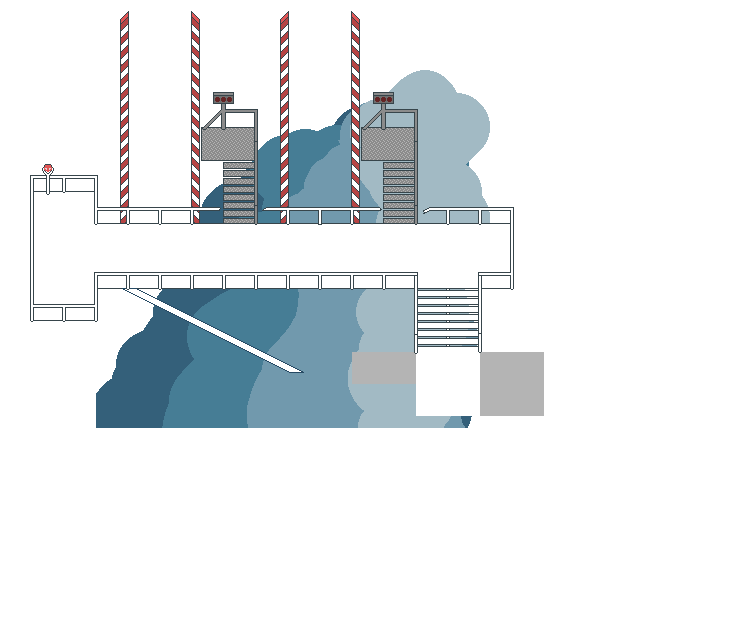
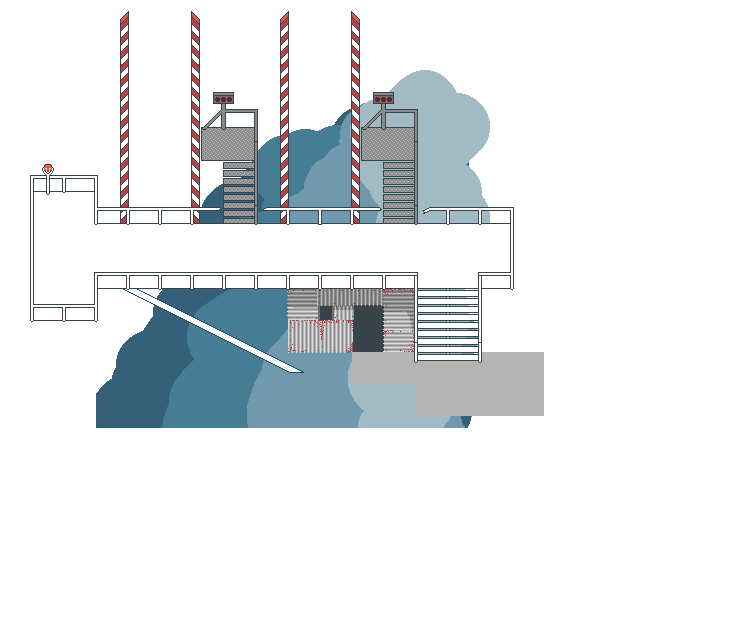
add texture

Changed region(s): [[0.375, 0.4375, 0.6562, 0.6562]]

diff --git a/AstroMiner/Definitions/WorldGrid.cs b/AstroMiner/Definitions/WorldGrid.cs
@@ -19,7 +19,7 @@ public static class WorldGrid
                                       X,-,-,-,-,-,-,-,-,-,-,-,-,-,-,-,X,X
                                       X,-,-,-,-,-,-,-,-,-,-,-,-,-,-,-,X,X
                                       X,-,-,X,X,X,X,X,X,X,X,X,X,-,-,X,X,X
-                                      X,X,X,X,X,X,X,X,X,X,X,X,X,-,-,X,X,X
+                                      X,X,X,X,X,X,X,X,X,X,X,-,X,-,-,X,X,X
                                       X,X,X,X,X,X,X,X,X,X,X,-,-,-,-,-,-,X
                                       X,X,X,X,X,X,X,X,X,X,X,X,X,-,-,-,-,X
                                       X,X,X,X,X,X,X,X,X,X,X,X,X,X,X,X,X,X

diff --git a/AstroMiner/AstroMinerGame.cs b/AstroMiner/AstroMinerGame.cs
@@ -88,6 +88,7 @@ public class AstroMinerGame : Game
         LoadTexture("mountains-nice");
         LoadTexture("mountains-nice-mask");
         LoadTexture("mountains-nice-tiled");
+        LoadTexture("rig-room");
     }
 
     protected override void Update(GameTime gameTime)
